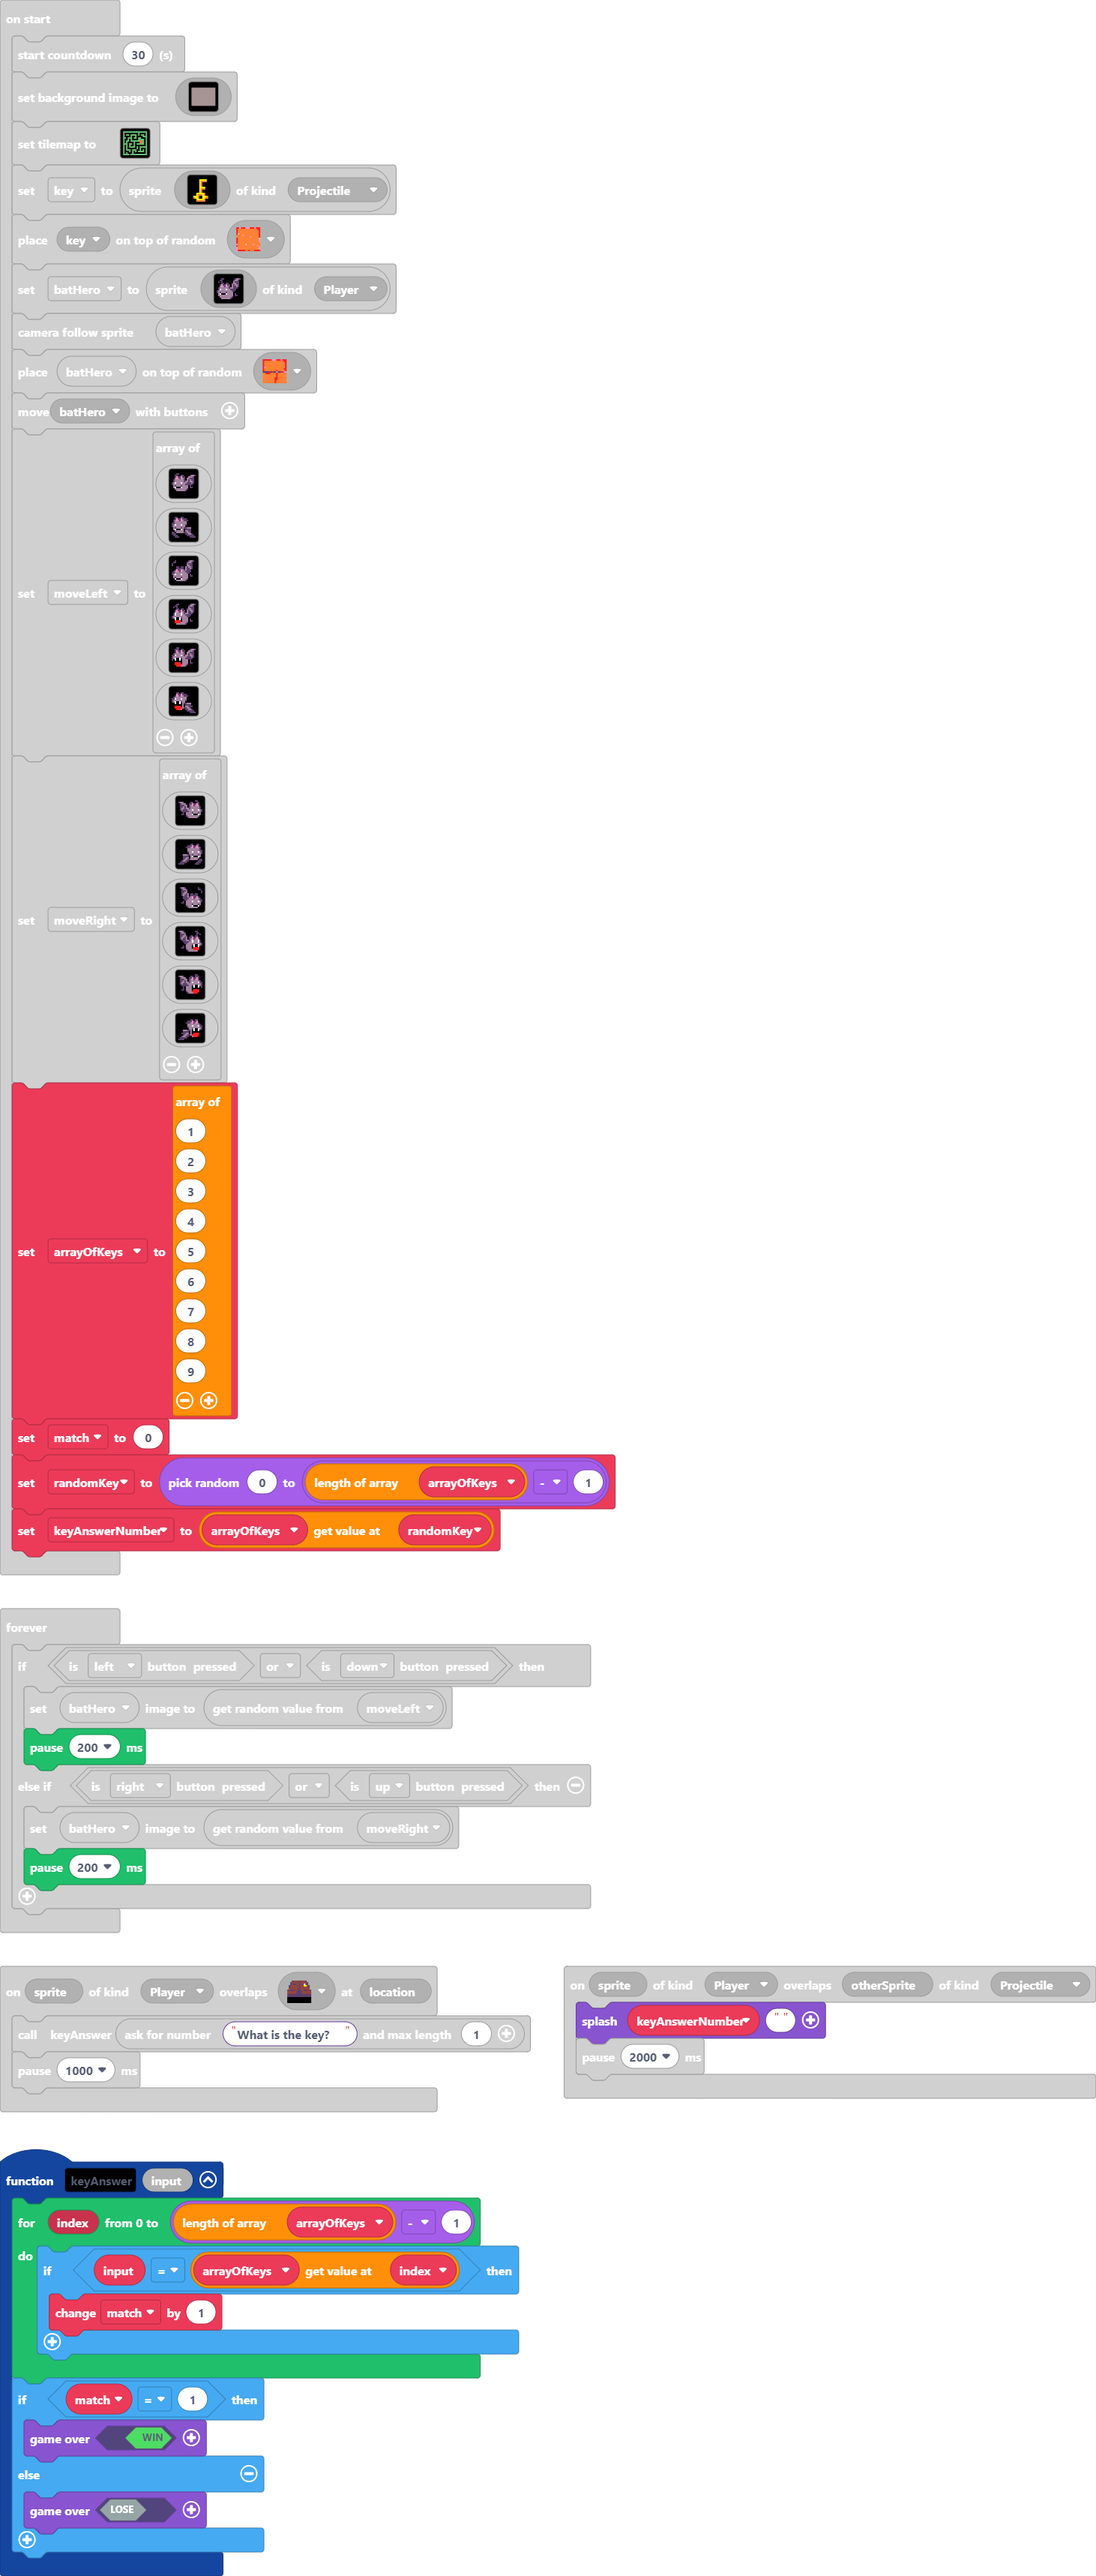
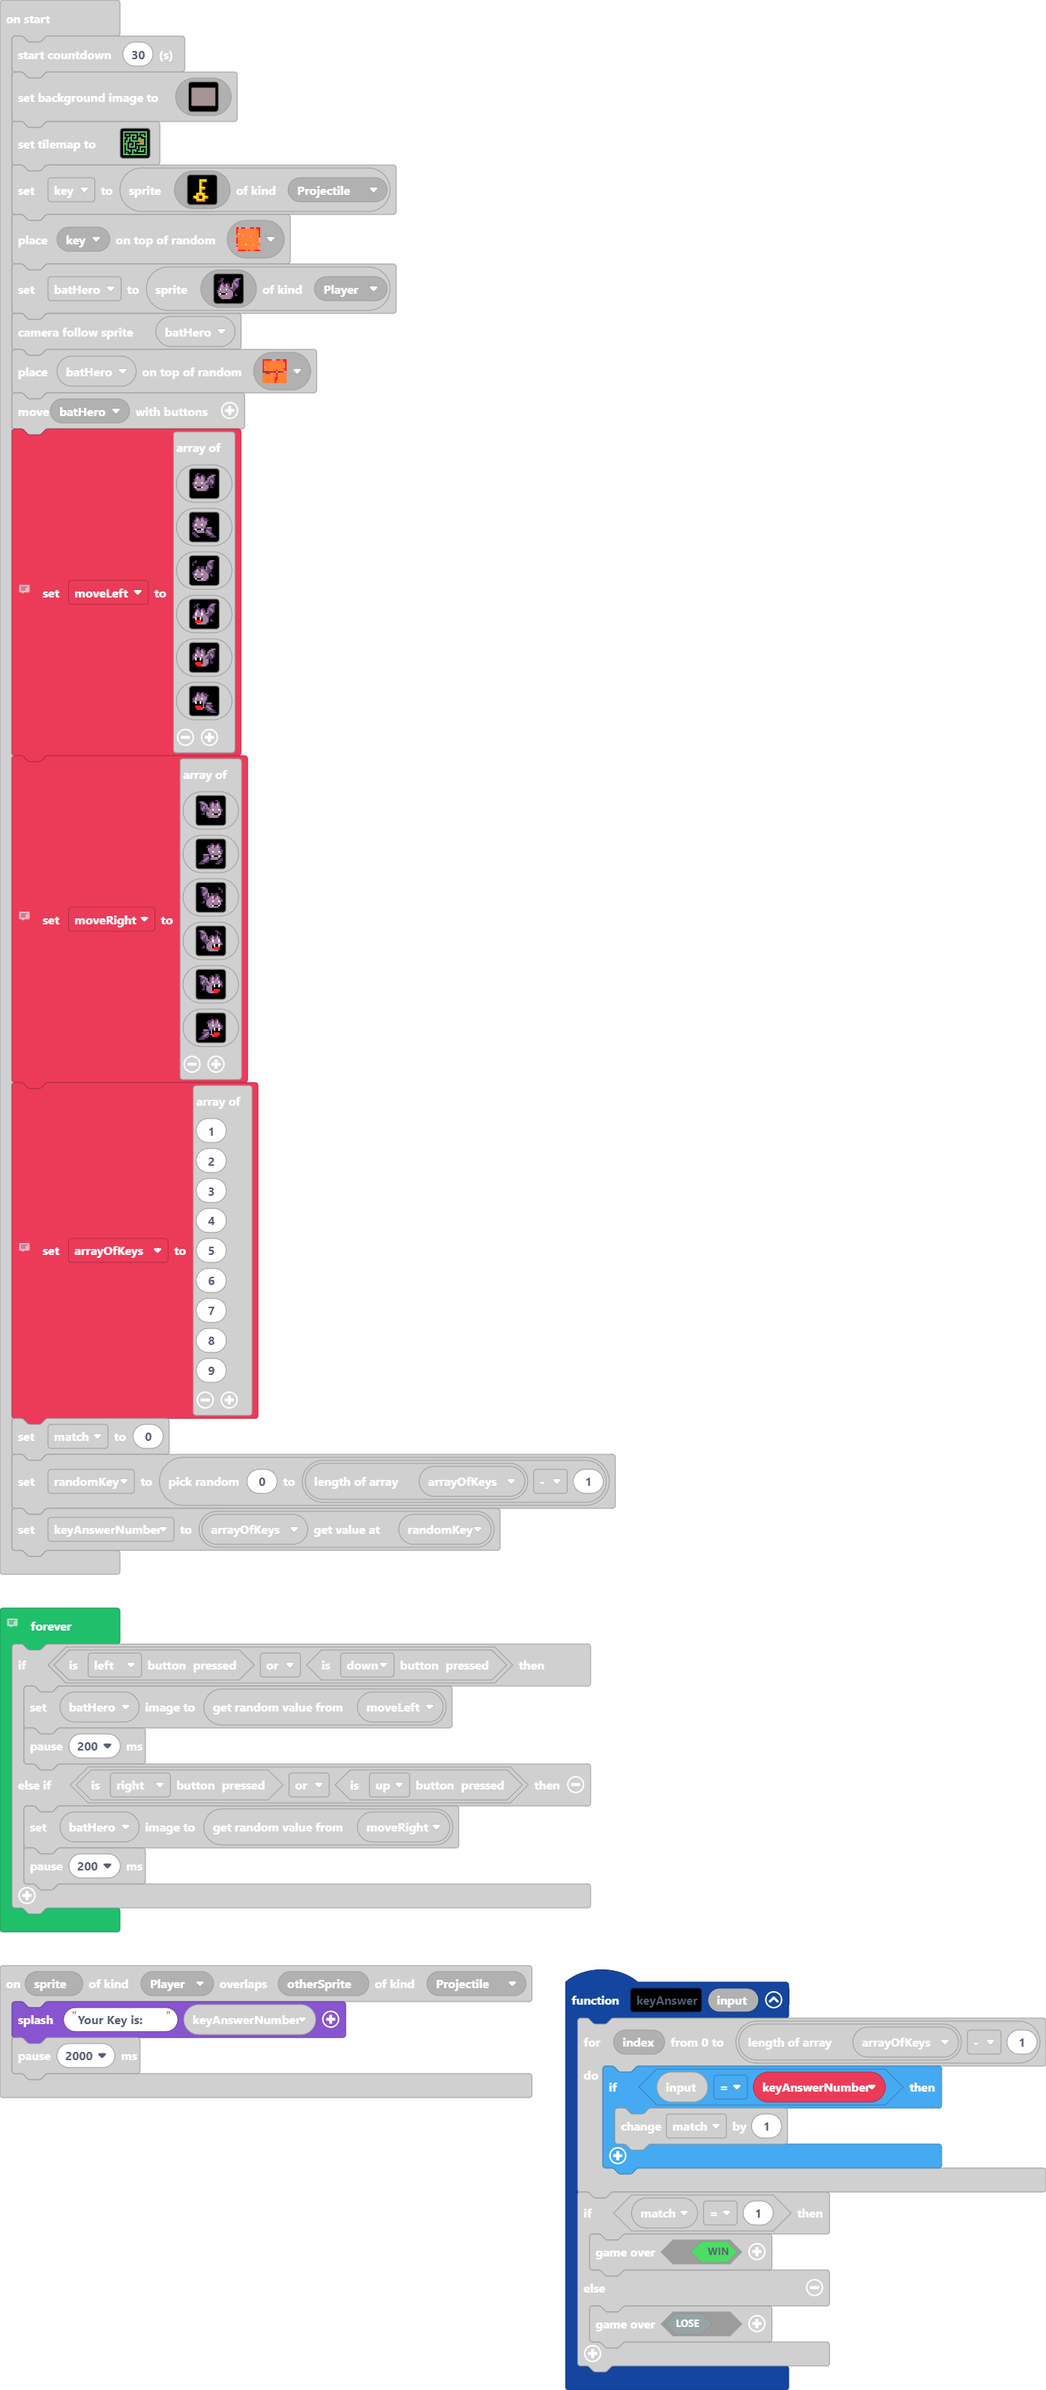
Update main.blocks, main.ts

Changed region(s): [[0.0, 0.0, 1.0, 1.0], [0.0925, 0.4969, 0.1233, 0.5279], [0.0616, 0.4658, 0.0925, 0.4969]]

diff --git a/main.ts b/main.ts
@@ -1,6 +1,6 @@
 function keyAnswer (input2: number) {
     for (let index = 0; index <= arrayOfKeys.length - 1; index++) {
-        if (input2 == arrayOfKeys[index]) {
+        if (input2 == keyAnswerNumber) {
             match += 1
         }
     }
@@ -15,7 +15,7 @@ scene.onOverlapTile(SpriteKind.Player, assets.tile`myTile7`, function (sprite, l
     pause(1000)
 })
 sprites.onOverlap(SpriteKind.Player, SpriteKind.Projectile, function (sprite, otherSprite) {
-    game.splash(keyAnswerNumber)
+    game.splash("Your Key is: ", keyAnswerNumber)
     pause(2000)
 })
 let keyAnswerNumber = 0
@@ -185,6 +185,7 @@ let batHero = sprites.create(img`
 scene.cameraFollowSprite(batHero)
 tiles.placeOnRandomTile(batHero, assets.tile`myTile3`)
 controller.moveSprite(batHero)
+// An array with multiple images of the sprite facing left
 let moveLeft = [
 img`
     . . f f f . . . . . . . . . . . 
@@ -295,6 +296,7 @@ img`
     . . . . . . . . . . . . c c c c 
     `
 ]
+// An array with multiple images of the sprite facing right
 let moveRight = [
 img`
     . . . . . . . . . . . f f f . . 
@@ -405,6 +407,7 @@ img`
     c c c c . . . . . . . . . . . . 
     `
 ]
+// An array of numbers to be used for the key
 arrayOfKeys = [
 1,
 2,
@@ -419,6 +422,7 @@ arrayOfKeys = [
 match = 0
 let randomKey = randint(0, arrayOfKeys.length - 1)
 keyAnswerNumber = arrayOfKeys[randomKey]
+// When left and down button is pressed, batHero sprite image changes to randomized images in moveLeft array. When right and up is pressed, batHero sprite image changes to randomized images in moveRight array
 forever(function () {
     if (controller.left.isPressed() || controller.down.isPressed()) {
         batHero.setImage(moveLeft._pickRandom())
